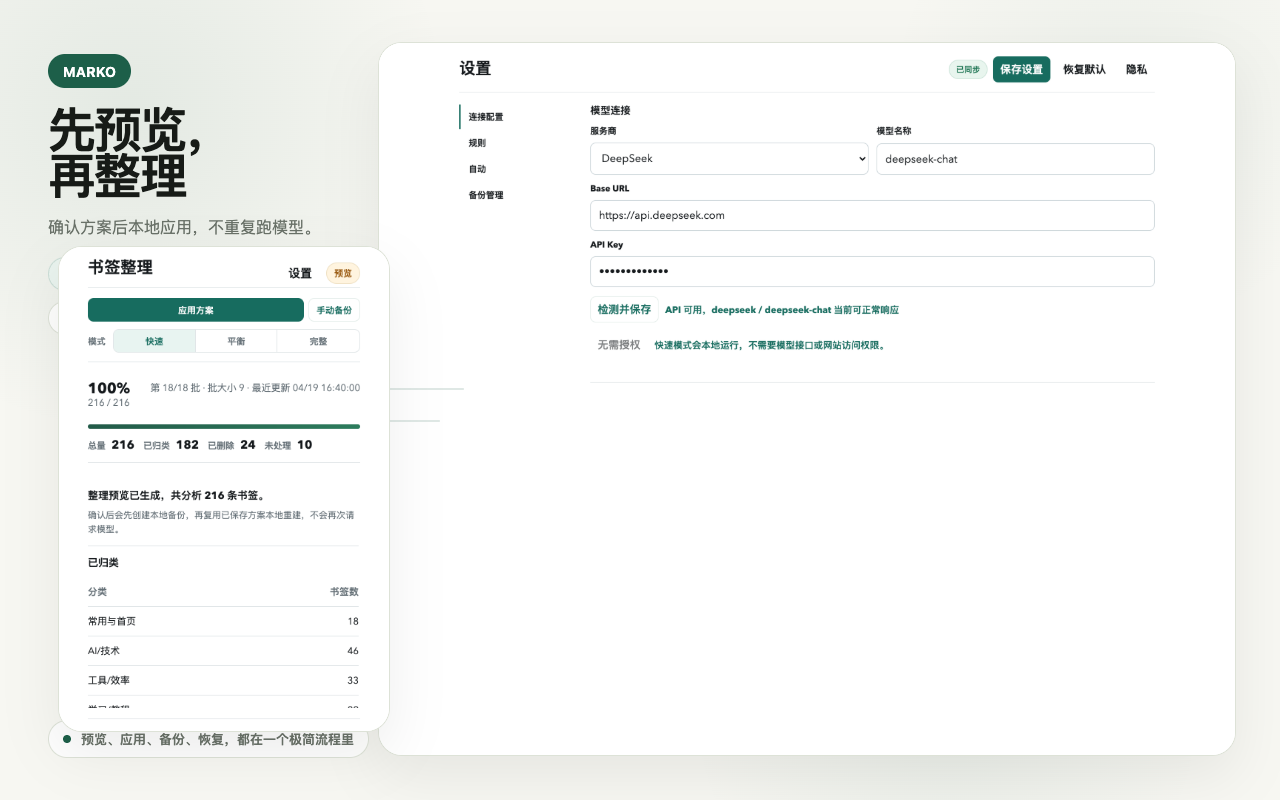
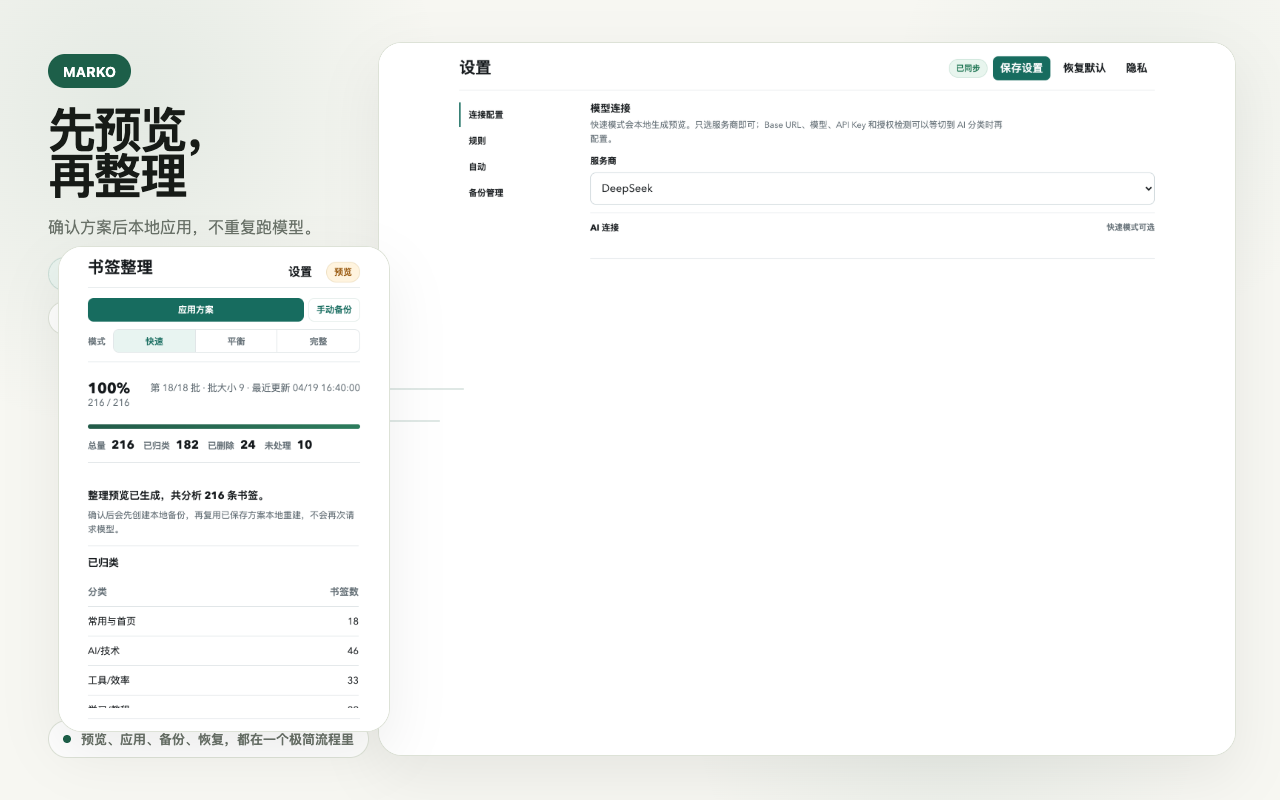
Unify settings speed mode control

diff --git a/tests/run-tests.js b/tests/run-tests.js
@@ -442,13 +442,16 @@ function testExtensionPackageFileList() {
 
 function testSpeedModeSurface() {
   const optionsHtml = fs.readFileSync(path.join(ROOT_DIR, "options.html"), "utf8");
-  assert.match(optionsHtml, /id="linkCheckMode"/);
-  assert.match(optionsHtml, /value="fast"/);
-  assert.match(optionsHtml, /value="balanced"/);
-  assert.match(optionsHtml, /value="complete"/);
+  assert.match(optionsHtml, /id="linkCheckMode"[\s\S]*type="hidden"[\s\S]*value="fast"/);
+  assert.match(optionsHtml, /data-settings-speed-mode="fast"/);
+  assert.match(optionsHtml, /data-settings-speed-mode="balanced"/);
+  assert.match(optionsHtml, /data-settings-speed-mode="complete"/);
+  assert.doesNotMatch(optionsHtml, /<select id="linkCheckMode"/);
 
   const optionsSource = fs.readFileSync(path.join(ROOT_DIR, "options.js"), "utf8");
   assert.match(optionsSource, /linkCheckMode/);
+  assert.match(optionsSource, /renderLinkCheckModeButtons/);
+  assert.match(optionsSource, /setLinkCheckMode/);
   assert.match(optionsSource, /LINK_CHECK_MODE_FAST/);
   assert.match(optionsSource, /LINK_CHECK_MODE_BALANCED/);
   assert.match(optionsSource, /LINK_CHECK_MODE_COMPLETE/);
@@ -1009,7 +1012,13 @@ function testOptionsBackupInlineConfirmationSurface() {
   assert.match(optionsHtml, /id="baseUrl"[\s\S]*aria-describedby="connectionModeHint"/);
   assert.match(optionsHtml, /id="apiKey"[\s\S]*aria-describedby="connectionModeHint"/);
   assert.match(optionsHtml, /id="autoOrganizeAccessHint"[\s\S]*role="status"[\s\S]*aria-live="polite"[\s\S]*hidden/);
-  assert.match(optionsHtml, /id="linkCheckMode"[\s\S]*aria-describedby="linkCheckModeHint"/);
+  assert.match(optionsHtml, /id="linkCheckMode"[\s\S]*type="hidden"[\s\S]*value="fast"/);
+  assert.match(optionsHtml, /id="linkCheckModeLabel"[\s\S]*data-i18n="labelLinkCheckMode"/);
+  assert.match(optionsHtml, /class="segmented-control segmented-control--settings"[\s\S]*role="radiogroup"[\s\S]*aria-labelledby="linkCheckModeLabel"[\s\S]*aria-describedby="linkCheckModeHint"/);
+  assert.match(optionsHtml, /id="settingsSpeedModeFastButton"[\s\S]*role="radio"[\s\S]*data-settings-speed-mode="fast"[\s\S]*aria-checked="true"[\s\S]*disabled/);
+  assert.match(optionsHtml, /id="settingsSpeedModeBalancedButton"[\s\S]*role="radio"[\s\S]*data-settings-speed-mode="balanced"[\s\S]*aria-checked="false"[\s\S]*disabled/);
+  assert.match(optionsHtml, /id="settingsSpeedModeCompleteButton"[\s\S]*role="radio"[\s\S]*data-settings-speed-mode="complete"[\s\S]*aria-checked="false"[\s\S]*disabled/);
+  assert.doesNotMatch(optionsHtml, /<select id="linkCheckMode"/);
   assert.match(optionsHtml, /id="linkCheckModeHint"[\s\S]*data-i18n="hintLinkCheckMode"/);
   assert.match(optionsHtml, /id="batchSize"[\s\S]*aria-describedby="batchSizeHint"/);
   assert.match(optionsHtml, /id="batchSizeHint"[\s\S]*data-i18n="hintBatchSize"/);
@@ -1154,9 +1163,18 @@ function testOptionsBackupInlineConfirmationSurface() {
   assert.match(optionsSource, /setSaveBadge\(t\("saveBadgeFailed"\), "danger"\)/);
   assert.match(optionsSource, /settingsAccessRequestingStatus/);
   assert.match(optionsSource, /let settingsReady = false/);
+  assert.match(optionsSource, /const linkCheckModeButtons = Array\.from\(document\.querySelectorAll\("\[data-settings-speed-mode\]"\)\)/);
+  assert.match(optionsSource, /function renderLinkCheckModeButtons/);
+  assert.match(optionsSource, /function setLinkCheckMode/);
+  assert.match(optionsSource, /linkCheckModeSelect\.dispatchEvent\(new Event\("change", \{ bubbles: true \}\)\)/);
+  assert.match(optionsSource, /button\.setAttribute\("aria-checked", String\(isActive\)\)/);
+  assert.match(optionsSource, /button\.tabIndex = isActive \? 0 : -1/);
+  assert.match(optionsSource, /linkCheckModeButtons\.forEach\(\(button, index\) =>/);
+  assert.match(optionsSource, /const handledKeys = \["ArrowLeft", "ArrowRight", "ArrowUp", "ArrowDown", "Home", "End"\]/);
   assert.match(optionsSource, /const isLocked = !settingsReady \|\| settingsActionInFlight/);
   assert.match(optionsSource, /settingsFields\.forEach/);
   assert.match(optionsSource, /field\.disabled = isLocked/);
+  assert.match(optionsSource, /linkCheckModeButtons\.forEach\(\(button\) => \{\n    button\.disabled = isLocked;/);
   assert.match(optionsSource, /saveButton\.disabled = isLocked/);
   assert.match(optionsSource, /testApiButton\.disabled = isLocked/);
   assert.match(optionsSource, /resetButton\.disabled = isLocked/);
@@ -1292,8 +1310,11 @@ function testOptionsBackupInlineConfirmationSurface() {
   assert.match(stylesSource, /\.settings-action-status/);
   assert.match(stylesSource, /\.backup-confirm/);
   assert.match(stylesSource, /\.panel__hint/);
+  assert.match(stylesSource, /\.field label,[\s\S]*\.field__label/);
   assert.match(stylesSource, /\.field__hint--warm/);
   assert.match(stylesSource, /\.field__hint\[hidden\]/);
+  assert.match(stylesSource, /\.segmented-control[\s\S]*width: 100%/);
+  assert.match(stylesSource, /\.segmented-control__button:focus-visible/);
   assert.match(stylesSource, /\.field input\[aria-invalid="true"\]/);
   assert.match(stylesSource, /\.field select\[aria-invalid="true"\]/);
   assert.match(stylesSource, /\.field textarea\[aria-invalid="true"\]/);
@@ -1415,6 +1436,7 @@ function testReleaseMaterialsCurrent() {
   assert.match(changelog, /Fast mode no longer blocks preview or settings save when Base URL or model name are blank/);
   assert.match(changelog, /Settings connection now explains which modes need model fields or website access/);
   assert.match(changelog, /collapses AI endpoint fields by default in Fast mode/);
+  assert.match(changelog, /Settings organization rules now use the same Fast\/Balanced\/Complete segmented control as the popup/);
   assert.match(changelog, /Settings connection fields now expose the selected mode requirement hint/);
   assert.match(changelog, /avoid implying Fast mode needs API credentials/);
   assert.match(changelog, /show how many uncached bookmarks require model classification/);
@@ -1481,6 +1503,7 @@ function testReleaseMaterialsCurrent() {
   assert.match(readme, /npm run package:webstore/);
   assert.match(readme, /Popup mode switch/);
   assert.match(readme, /keeps AI connection fields collapsed until Balanced or Complete needs them/);
+  assert.match(readme, /same Fast\/Balanced\/Complete segmented control as the popup/);
   assert.match(readme, /built-in domain rules/);
   assert.match(readme, /unless Balanced\/Complete preview or enabled auto organize needs external access/);
   assert.match(readme, /manual-review fallback finish locally/);
@@ -1514,6 +1537,7 @@ function testReleaseMaterialsCurrent() {
   assert.match(readmeZh, /npm run package:webstore/);
   assert.match(readmeZh, /弹窗模式切换/);
   assert.match(readmeZh, /AI 连接字段会在平衡或完整模式需要时再展开/);
+  assert.match(readmeZh, /和弹窗一致的快速\/平衡\/完整三段控件/);
   assert.match(readmeZh, /内置域名规则/);
   assert.match(readmeZh, /待手动分类兜底会在本地完成/);
   assert.match(readmeZh, /快速自动整理可以不填 API Key 本地运行/);
@@ -1535,6 +1559,7 @@ function testReleaseMaterialsCurrent() {
   assert.match(releaseNotes, /Fast mode no longer blocks preview or settings save when Base URL or model name are blank/);
   assert.match(releaseNotes, /Settings connection now explains which modes need model fields or website access/);
   assert.match(releaseNotes, /keeps AI connection fields collapsed by default/);
+  assert.match(releaseNotes, /Settings organization rules now use the same Fast\/Balanced\/Complete segmented control as the popup/);
   assert.match(releaseNotes, /Settings connection fields now expose the selected mode requirement hint/);
   assert.match(releaseNotes, /Settings Privacy now falls back from tab creation to window opening/);
   assert.match(releaseNotes, /Popup Settings shortcuts now show an inline error if both tab creation and the options-page fallback fail/);
@@ -1682,6 +1707,8 @@ function testReleaseMaterialsCurrent() {
   assert.match(storeAssetRenderer, /batchSize: 9/);
   assert.match(storeAssetRenderer, /currentBatch: 18/);
   assert.match(storeAssetRenderer, /totalBatches: 18/);
+  assert.match(storeAssetRenderer, /#settingsSpeedModeFastButton/);
+  assert.doesNotMatch(storeAssetRenderer, /waitForSelector\("#linkCheckMode"\)/);
 
   const layoutAuditor = fs.readFileSync(
     path.join(ROOT_DIR, "webstore/audit_ui_layout.mjs"),
@@ -1691,6 +1718,8 @@ function testReleaseMaterialsCurrent() {
   assert.match(layoutAuditor, /popup zh preview 320/);
   assert.match(layoutAuditor, /popup en long error 320/);
   assert.match(layoutAuditor, /settings en connection 390/);
+  assert.match(layoutAuditor, /settings zh organization 390/);
+  assert.match(layoutAuditor, /settings en organization 390/);
   assert.match(layoutAuditor, /settings zh backup 1280/);
   assert.match(layoutAuditor, /overflowElements/);
   assert.match(layoutAuditor, /scrollableControls/);
@@ -1768,10 +1797,16 @@ function testReleaseMaterialsCurrent() {
   assert.match(extensionE2e, /large Fast preview took too long/);
   assert.match(extensionE2e, /OK large Fast library flow/);
   assert.match(extensionE2e, /optionsSaveExpression/);
+  assert.match(extensionE2e, /settingsSpeedModeBalancedButton/);
+  assert.match(extensionE2e, /settingsSpeedModeFastButton/);
+  assert.match(extensionE2e, /options speed-mode segmented control did not activate Balanced mode/);
+  assert.match(extensionE2e, /options speed-mode segmented control did not return to Fast mode/);
   assert.match(extensionE2e, /config\.provider === "deepseek"/);
   assert.match(extensionE2e, /config\.batchSize === 9/);
   assert.match(extensionE2e, /balancedConnectionOpen/);
   assert.match(extensionE2e, /fastConnectionOpen/);
+  assert.match(extensionE2e, /balancedButton=/);
+  assert.match(extensionE2e, /fastButton=/);
   assert.match(extensionE2e, /auto-open AI connection fields for Balanced mode/);
   assert.match(extensionE2e, /E2E saved prompt/);
   assert.match(extensionE2e, /openai\\.com => AI Saved/);
@@ -1862,7 +1897,7 @@ function testReleaseMaterialsCurrent() {
   assert.match(publishChecklist, /--load-extension is not allowed in Google Chrome, ignoring/);
   assert.match(publishChecklist, /Chrome for Testing 或 Chromium/);
   assert.match(publishChecklist, /弹窗在 320px、360px、400px 宽度下没有横向滚动/);
-  assert.match(publishChecklist, /设置页在 390px、720px、1280px 宽度下没有横向滚动/);
+  assert.match(publishChecklist, /设置页在 390px、720px、1280px 宽度下没有横向滚动，连接区、整理规则区、备份区/);
 }
 
 function testI18nCoverage() {

diff --git a/options.js b/options.js
@@ -24,6 +24,7 @@ const modelInput = document.getElementById("model");
 const batchSizeInput = document.getElementById("batchSize");
 const batchSizeCapHint = document.getElementById("batchSizeCapHint");
 const linkCheckModeSelect = document.getElementById("linkCheckMode");
+const linkCheckModeButtons = Array.from(document.querySelectorAll("[data-settings-speed-mode]"));
 const connectionModeHint = document.getElementById("connectionModeHint");
 const aiConnectionBlock = document.getElementById("aiConnectionBlock");
 const aiConnectionSummaryNote = document.getElementById("aiConnectionSummaryNote");
@@ -581,6 +582,9 @@ function updateSettingsOperationControls() {
   settingsFields.forEach((field) => {
     field.disabled = isLocked;
   });
+  linkCheckModeButtons.forEach((button) => {
+    button.disabled = isLocked;
+  });
   saveButton.disabled = isLocked;
   testApiButton.disabled = isLocked;
   resetButton.disabled = isLocked;
@@ -832,13 +836,44 @@ function scheduleHostAccessStatusRefresh(reason) {
   }, 250);
 }
 
+function renderLinkCheckModeButtons(mode = normalizeLinkCheckMode(linkCheckModeSelect.value)) {
+  const activeMode = normalizeLinkCheckMode(mode);
+  const modeLabels = {
+    [LINK_CHECK_MODE_FAST]: t("popupSpeedModeFastAria"),
+    [LINK_CHECK_MODE_BALANCED]: t("popupSpeedModeBalancedAria"),
+    [LINK_CHECK_MODE_COMPLETE]: t("popupSpeedModeCompleteAria")
+  };
+
+  linkCheckModeButtons.forEach((button) => {
+    const buttonMode = normalizeLinkCheckMode(button.dataset.settingsSpeedMode);
+    const isActive = buttonMode === activeMode;
+    button.classList.toggle("is-active", isActive);
+    button.setAttribute("aria-checked", String(isActive));
+    button.title = modeLabels[buttonMode] || "";
+    button.setAttribute("aria-label", modeLabels[buttonMode] || button.textContent.trim());
+    button.tabIndex = isActive ? 0 : -1;
+  });
+}
+
+function setLinkCheckMode(mode, options = {}) {
+  const nextMode = normalizeLinkCheckMode(mode);
+  const previousMode = normalizeLinkCheckMode(linkCheckModeSelect.value);
+
+  linkCheckModeSelect.value = nextMode;
+  renderLinkCheckModeButtons(nextMode);
+
+  if (options.emitChange && nextMode !== previousMode) {
+    linkCheckModeSelect.dispatchEvent(new Event("change", { bubbles: true }));
+  }
+}
+
 function populateForm(config) {
   providerSelect.value = config.provider;
   baseUrlInput.value = config.baseUrl;
   apiKeyInput.value = config.apiKey;
   modelInput.value = config.model;
   batchSizeInput.value = String(config.batchSize);
-  linkCheckModeSelect.value = normalizeLinkCheckMode(config.linkCheckMode);
+  setLinkCheckMode(config.linkCheckMode);
   autoOrganizeEnabledInput.value = config.autoOrganizeEnabled ? "true" : "false";
   autoOrganizeIntervalInput.value = String(config.autoOrganizeIntervalHours);
   setWhitelistSelection(parseWhitelistDomains(config.whitelistDomains));
@@ -1821,6 +1856,35 @@ providerSelect.addEventListener("change", () => {
   void refreshHostAccessStatus().catch((error) => {
     console.error("Failed to refresh host access status after provider change:", error);
     renderHostAccessRefreshFailure();
+  });
+});
+
+linkCheckModeButtons.forEach((button, index) => {
+  button.addEventListener("click", () => {
+    if (button.disabled) {
+      return;
+    }
+
+    setLinkCheckMode(button.dataset.settingsSpeedMode, { emitChange: true });
+  });
+
+  button.addEventListener("keydown", (event) => {
+    const handledKeys = ["ArrowLeft", "ArrowRight", "ArrowUp", "ArrowDown", "Home", "End"];
+    if (!handledKeys.includes(event.key)) {
+      return;
+    }
+
+    event.preventDefault();
+    const nextIndex =
+      event.key === "Home"
+        ? 0
+        : event.key === "End"
+          ? linkCheckModeButtons.length - 1
+          : (index + (["ArrowRight", "ArrowDown"].includes(event.key) ? 1 : -1) + linkCheckModeButtons.length) %
+            linkCheckModeButtons.length;
+    const nextButton = linkCheckModeButtons[nextIndex];
+    nextButton.focus();
+    setLinkCheckMode(nextButton.dataset.settingsSpeedMode, { emitChange: true });
   });
 });
 

diff --git a/options.html b/options.html
@@ -292,12 +292,52 @@
                   </div>
 
                   <div class="field">
-                    <label for="linkCheckMode" data-i18n="labelLinkCheckMode">Speed Mode</label>
-                    <select id="linkCheckMode" name="linkCheckMode" aria-describedby="linkCheckModeHint">
-                      <option value="fast" data-i18n="linkCheckFast">Fast</option>
-                      <option value="balanced" data-i18n="linkCheckBalanced">Balanced</option>
-                      <option value="complete" data-i18n="linkCheckComplete">Complete</option>
-                    </select>
+                    <div class="field__label" id="linkCheckModeLabel" data-i18n="labelLinkCheckMode">Speed Mode</div>
+                    <input id="linkCheckMode" name="linkCheckMode" type="hidden" value="fast" />
+                    <div
+                      class="segmented-control segmented-control--settings"
+                      role="radiogroup"
+                      aria-labelledby="linkCheckModeLabel"
+                      aria-describedby="linkCheckModeHint"
+                      aria-orientation="horizontal"
+                    >
+                      <button
+                        class="segmented-control__button"
+                        id="settingsSpeedModeFastButton"
+                        type="button"
+                        role="radio"
+                        data-settings-speed-mode="fast"
+                        aria-checked="true"
+                        data-i18n="linkCheckFast"
+                        disabled
+                      >
+                        Fast
+                      </button>
+                      <button
+                        class="segmented-control__button"
+                        id="settingsSpeedModeBalancedButton"
+                        type="button"
+                        role="radio"
+                        data-settings-speed-mode="balanced"
+                        aria-checked="false"
+                        data-i18n="linkCheckBalanced"
+                        disabled
+                      >
+                        Balanced
+                      </button>
+                      <button
+                        class="segmented-control__button"
+                        id="settingsSpeedModeCompleteButton"
+                        type="button"
+                        role="radio"
+                        data-settings-speed-mode="complete"
+                        aria-checked="false"
+                        data-i18n="linkCheckComplete"
+                        disabled
+                      >
+                        Complete
+                      </button>
+                    </div>
                     <p class="field__hint" id="linkCheckModeHint" data-i18n="hintLinkCheckMode">
                       Fast finishes locally. Balanced skips link checks but keeps AI classification. Complete checks links and uses AI.
                     </p>

diff --git a/styles.css b/styles.css
@@ -195,6 +195,7 @@ textarea {
   display: grid;
   flex: 1 1 232px;
   grid-template-columns: repeat(3, minmax(0, 1fr));
+  width: 100%;
   min-width: 0;
   overflow: hidden;
   border: 1px solid var(--line);
@@ -223,6 +224,13 @@ textarea {
 
 .segmented-control__button:hover {
   color: var(--accent);
+}
+
+.segmented-control__button:focus-visible {
+  position: relative;
+  z-index: 1;
+  outline: 2px solid var(--accent);
+  outline-offset: -2px;
 }
 
 .segmented-control__button.is-active {
@@ -527,7 +535,8 @@ textarea {
   display: none;
 }
 
-.field label {
+.field label,
+.field__label {
   font-size: 13px;
   font-weight: 700;
 }

diff --git a/CHANGELOG.md b/CHANGELOG.md
@@ -13,6 +13,7 @@
 - Fast mode no longer blocks preview or settings save when Base URL or model name are blank because the local path does not call the model
 - Settings connection now explains which modes need model fields or website access, so Fast mode no longer looks like mandatory API setup
 - Settings connection now collapses AI endpoint fields by default in Fast mode and opens them automatically for Balanced or Complete mode
+- Settings organization rules now use the same Fast/Balanced/Complete segmented control as the popup instead of a compact dropdown
 - Settings connection fields now expose the selected mode requirement hint to assistive technologies while preserving inline validation messages
 - Popup setup copy and shortcut logic now avoid implying Fast mode needs API credentials when local preview can run without a model call
 - Popup setup errors now show how many uncached bookmarks require model classification before asking users to finish AI access setup

diff --git a/webstore/PUBLISH_CHECKLIST.md b/webstore/PUBLISH_CHECKLIST.md
@@ -13,7 +13,7 @@
 ## UI 自适应
 - [ ] 运行 `npm run audit:ui`
 - [ ] 弹窗在 320px、360px、400px 宽度下没有横向滚动，顶部状态、速度模式、主操作按钮、错误提示都不裁切
-- [ ] 设置页在 390px、720px、1280px 宽度下没有横向滚动，连接区、备份区、长错误提示和长服务商/模型值不会撑宽页面
+- [ ] 设置页在 390px、720px、1280px 宽度下没有横向滚动，连接区、整理规则区、备份区、长错误提示和长服务商/模型值不会撑宽页面
 - [ ] 中英文界面都检查一次长状态文案、权限失败文案、备份恢复确认和未处理项按钮
 
 ## 功能回归

diff --git a/README.zh-CN.md b/README.zh-CN.md
@@ -73,7 +73,7 @@ Marko 用来把拥挤的 Chrome 书签栏整理成更少、更清楚、更容易
   </tr>
   <tr>
     <td><strong>应用</strong><br />在弹窗内确认已保存的预览方案，先备份，再本地重建，不会再次跑模型。</td>
-    <td><strong>规则</strong><br />速度模式、批大小、白名单网站和高级规则集中管理，不挤占连接配置。</td>
+    <td><strong>规则</strong><br />用和弹窗一致的快速/平衡/完整三段控件调整速度模式，并集中管理批大小、白名单网站和高级规则。</td>
   </tr>
 </table>
 

diff --git a/README.md b/README.md
@@ -73,7 +73,7 @@ Marko helps turn a crowded Chrome bookmark bar into a smaller, clearer, easier-t
   </tr>
   <tr>
     <td><strong>Apply</strong><br />Confirm the saved preview inline, then back up and rebuild locally without a second model run.</td>
-    <td><strong>Rules</strong><br />Tune speed mode, batch size, whitelist websites, and advanced rules without crowding setup.</td>
+    <td><strong>Rules</strong><br />Tune speed mode with the same Fast/Balanced/Complete segmented control as the popup, plus batch size, whitelist websites, and advanced rules.</td>
   </tr>
 </table>
 
